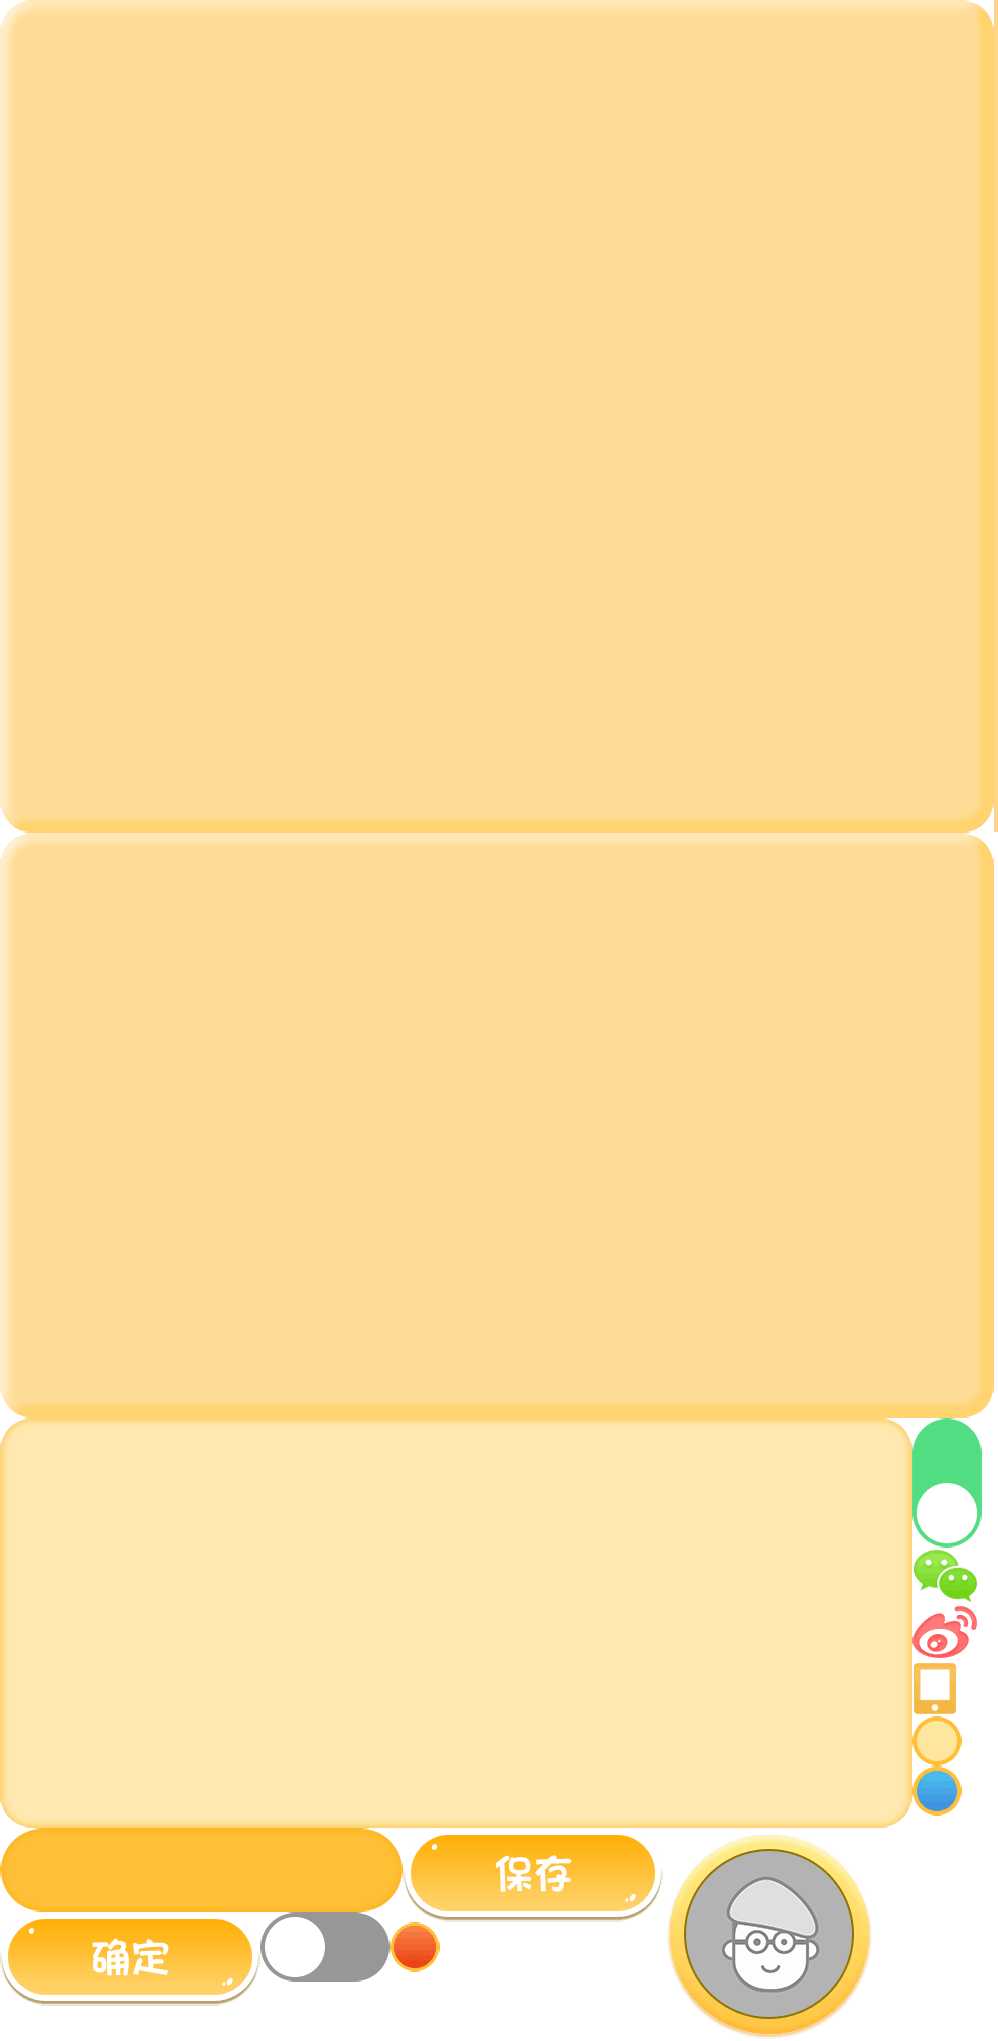
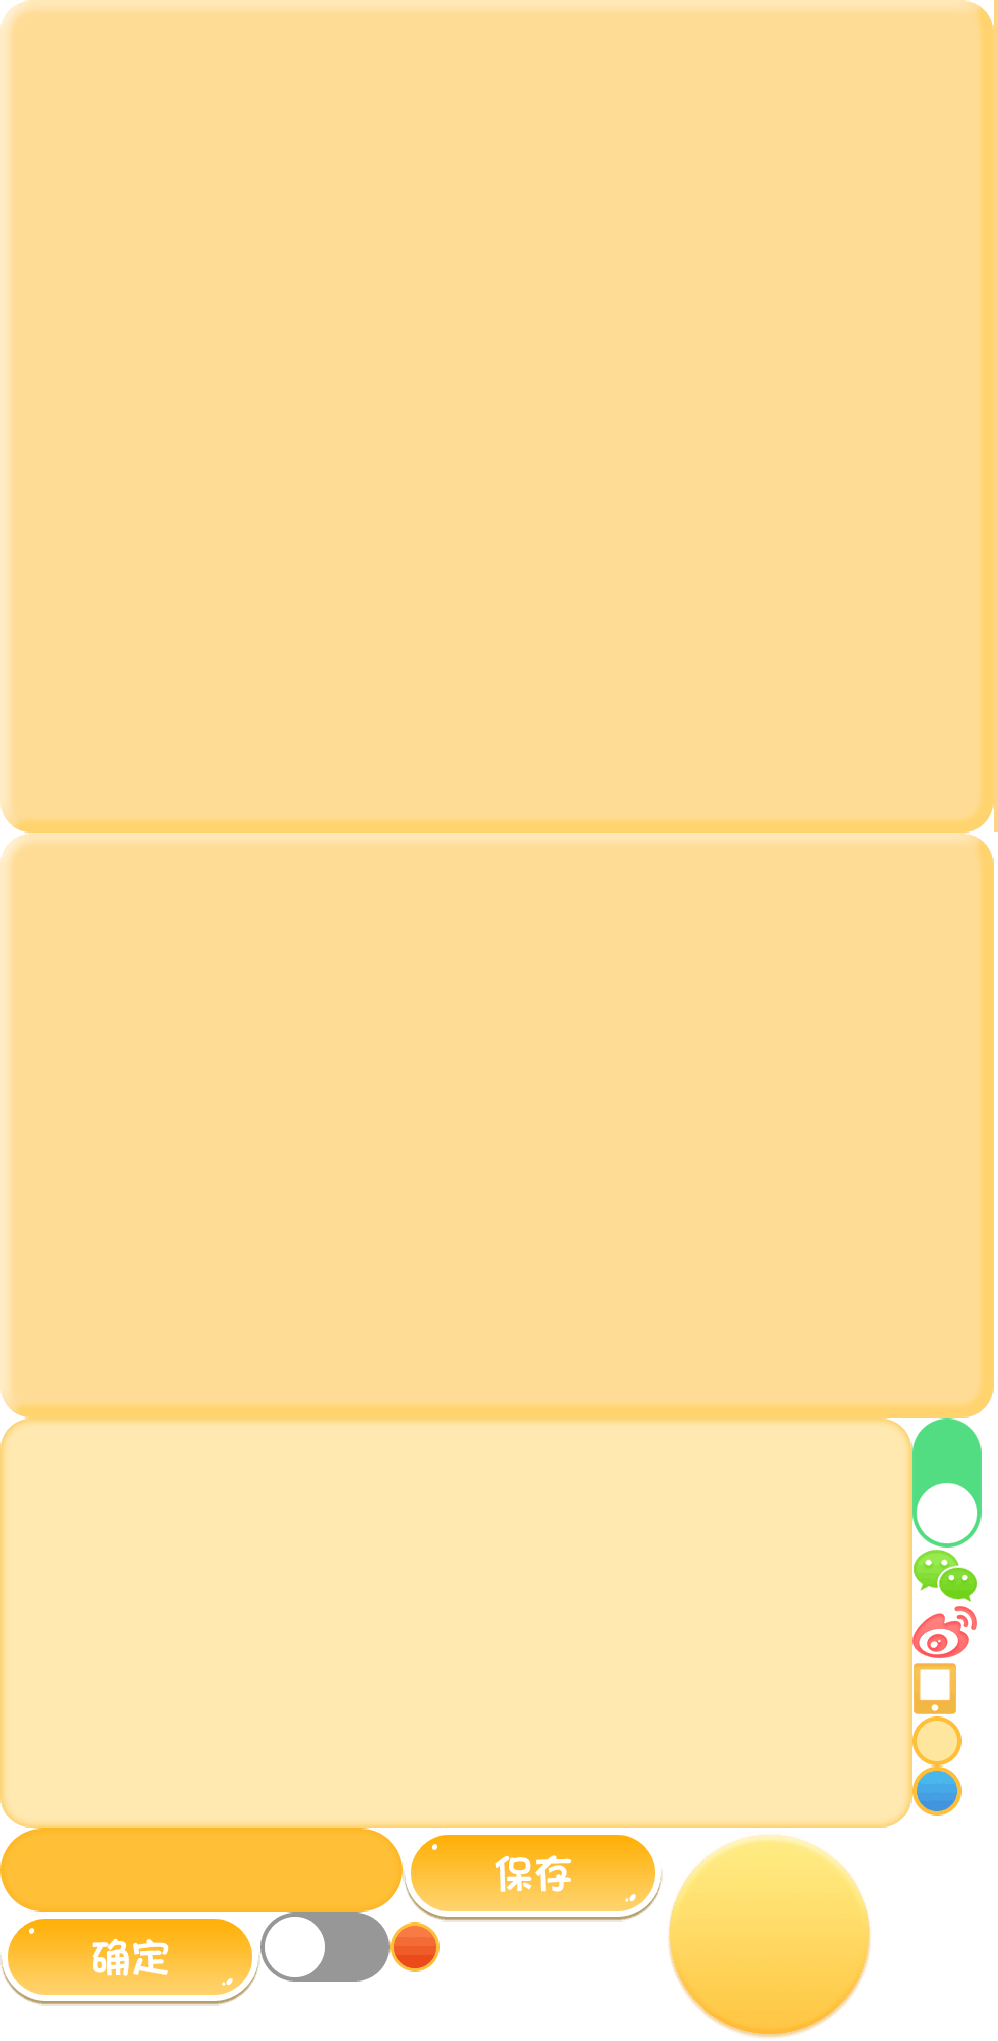
首页头像

Changed region(s): [[0.6834, 0.8951, 0.8697, 0.9878]]

diff --git a/Classes/Main/MainScene.cpp b/Classes/Main/MainScene.cpp
@@ -14,6 +14,7 @@
 #include "DataTableFile.h"
 
 #include "WebViewScene.h"
+#include "renderer/CCGLProgramStateCache.h"
 
 
 USING_NS_CC;
@@ -77,38 +78,47 @@ bool MainScene::init( void )
     
     //用户头像
 
-    auto t_fileInfo = DataTableFile::instance().find( m_loginUser.headImg );
+    auto t_userHeadBorder = Button::create( TexturePacker::Main::mainUserHeadBackground, TexturePacker::Main::mainUserHeadBackground, "", Widget::TextureResType::PLIST );
+    auto t_userHeadBorderSizeHalf = t_userHeadBorder->getContentSize() * 0.5f;
+    auto t_userHeadBorderPosition = Vec2( origin.x + t_userHeadBorderSizeHalf.width + 15.0f , origin.y + visibleSize.height - t_userHeadBorderSizeHalf.height - 10.0f );
 
-    m_personalHead = Button::create( TexturePacker::Dialog::per_touxiang, TexturePacker::Dialog::per_touxiang, "", Widget::TextureResType::PLIST  );
+    t_userHeadBorder->setPosition( t_userHeadBorderPosition );
+    t_userHeadBorder->setScale( adaptation() );
+    this->addChild( t_userHeadBorder );
+    m_mainSceneButtons.push_back( t_userHeadBorder );
     
-    if( !t_fileInfo.fileName.empty() )
-    {
-        m_personalHead->loadTextures( fullFilePath( t_fileInfo.fileName ), fullFilePath( t_fileInfo.fileName ) );
-    }
-
-    m_personalHead->setScale( adaptation() );
-    auto t_personalHeadSizeHelf = m_personalHead->getContentSize() * adaptation() * 0.5f;
-    auto t_personalHeadPosition = Vec2( origin.x + t_personalHeadSizeHelf.width + 15.0f , origin.y + visibleSize.height - t_personalHeadSizeHelf.height - 10.0f );
-    m_personalHead->setPosition( t_personalHeadPosition );
-    this->addChild( m_personalHead );
-    m_mainSceneButtons.push_back( m_personalHead );
-
-    auto t_personalName = Label::createWithTTF( m_loginUser.userName, PAGE_FONT, 16 );
-    auto t_personalNameSizeHalf = t_personalName->getContentSize() * 0.5f;
-
-    t_personalName->setPosition( Vec2( t_personalHeadPosition.x + t_personalHeadSizeHelf.width + t_personalNameSizeHalf.width + 5.0f, t_personalHeadPosition.y ) );
-
-    this->addChild( t_personalName );
-
-
     
-
-    
-    touchAnswer( m_personalHead , [this]( Ref * p_ref ){
+    touchAnswer( t_userHeadBorder , [this]( Ref * p_ref ){
         m_disenableAllButton();
         personalHeadOnClick();
     }, adaptation() * 1.1f, adaptation() );
     
+
+    auto t_fileInfo = DataTableFile::instance().find( m_loginUser.headImg );
+
+    m_personalHead = t_fileInfo.fileId.empty() ? Sprite::create( "DefaultHead.png" ) : Sprite::create( t_fileInfo.fileName ) ;
+
+    auto t_personalHeadSizeHelf = m_personalHead->getContentSize() * 0.5f;
+    m_personalHead->setPosition( Vec2( t_userHeadBorderSizeHalf.width, t_userHeadBorderSizeHalf.height ) );
+    m_personalHead->setScale( t_userHeadBorderSizeHalf.height * 0.93f / t_personalHeadSizeHelf.height );
+    t_userHeadBorder->addChild( m_personalHead );
+
+    GLProgram * t_userHeadProgram = GLProgramCache::getInstance()->getGLProgram( "UserHead" );
+    if( !t_userHeadProgram )
+    {
+        t_userHeadProgram = GLProgram::createWithFilenames( "UserHead.vert", "UserHead.frag" );
+        GLProgramCache::getInstance()->addGLProgram( t_userHeadProgram, "UserHead" );
+    }
+
+    GLProgramState * t_userHeadProgramState = GLProgramState::getOrCreateWithGLProgram( t_userHeadProgram );
+    m_personalHead->setGLProgramState( t_userHeadProgramState );
+
+    auto t_personalName = Label::createWithTTF( m_loginUser.userName, PAGE_FONT, 16 );
+    auto t_personalNameSizeHalf = t_personalName->getContentSize() * 0.5f;
+
+    t_personalName->setPosition( Vec2( t_userHeadBorderPosition.x + t_userHeadBorderSizeHalf.width + t_personalNameSizeHalf.width + 5.0f, t_userHeadBorderPosition.y ) );
+
+    this->addChild( t_personalName );
     
     auto t_Settings = Button::create( TexturePacker::Main::mainSetting, TexturePacker::Main::mainSetting, "", Widget::TextureResType::PLIST  );
     t_Settings->setScale( adaptation() );
@@ -254,7 +264,7 @@ void MainScene::refreshSource( const DataFile & p_fileInfo )
         auto t_fileInfo = DataTableFile::instance().find( m_loginUser.headImg );
         if( !t_fileInfo.fileName.empty() )
         {
-            m_personalHead->loadTextures( fullFilePath( t_fileInfo.fileName ), fullFilePath( t_fileInfo.fileName ) );
+            m_personalHead->setSpriteFrame( t_fileInfo.fileName );
         }
     }
 }

diff --git a/Classes/Resources/Dialog.cpp b/Classes/Resources/Dialog.cpp
@@ -33,7 +33,6 @@ const std::string Dialog::listSpaceLine             = "ListSpaceLine.png";
 const std::string Dialog::loginByPhone              = "LoginByPhone.png";
 const std::string Dialog::loginByWeChat             = "LoginByWeChat.png";
 const std::string Dialog::loginByXinlang            = "LoginByXinlang.png";
-const std::string Dialog::per_touxiang              = "per_touxiang.png";
 const std::string Dialog::personalCenterBackground  = "PersonalCenterBackground.png";
 const std::string Dialog::redioButtonNormal         = "RedioButtonNormal.png";
 const std::string Dialog::redioButtonSelectedBlue   = "RedioButtonSelectedBlue.png";
@@ -44,6 +43,7 @@ const std::string Dialog::settingsContentBackground = "SettingsContentBackground
 const std::string Dialog::swichEnabled              = "SwichEnabled.png";
 const std::string Dialog::swichNormal               = "SwichNormal.png";
 const std::string Dialog::texteditBackground        = "TexteditBackground.png";
+const std::string Dialog::userHeadBackground        = "UserHeadBackground.png";
 
 // ---------------------------------------------------------
 // convenience functions returing pointers to Sprite objects
@@ -71,11 +71,6 @@ Sprite* Dialog::createLoginByWeChatSprite()
 Sprite* Dialog::createLoginByXinlangSprite()
 {
     return Sprite::createWithSpriteFrameName(loginByXinlang);
-}
-
-Sprite* Dialog::createPer_touxiangSprite()
-{
-    return Sprite::createWithSpriteFrameName(per_touxiang);
 }
 
 Sprite* Dialog::createPersonalCenterBackgroundSprite()
@@ -126,6 +121,11 @@ Sprite* Dialog::createSwichNormalSprite()
 Sprite* Dialog::createTexteditBackgroundSprite()
 {
     return Sprite::createWithSpriteFrameName(texteditBackground);
+}
+
+Sprite* Dialog::createUserHeadBackgroundSprite()
+{
+    return Sprite::createWithSpriteFrameName(userHeadBackground);
 }
 
 

diff --git a/Classes/Resources/Main.cpp b/Classes/Resources/Main.cpp
@@ -1,6 +1,6 @@
 // ---------------------------------------
 // Sprite definitions for Main
-// Generated with TexturePacker 4.8.2
+// Generated with TexturePacker 4.8.3
 //
 // https://www.codeandweb.com/texturepacker
 // ---------------------------------------
@@ -28,13 +28,14 @@ void Main::removeSpriteFramesFromCache()
 // ---------------------
 // sprite name constants
 // ---------------------
-const std::string Main::mainBaike      = "MainBaike.png";
-const std::string Main::mainDadpat     = "MainDadpat.png";
-const std::string Main::mainGame       = "MainGame.png";
-const std::string Main::mainMessage    = "MainMessage.png";
-const std::string Main::mainNewMessage = "MainNewMessage.png";
-const std::string Main::mainNotice     = "MainNotice.png";
-const std::string Main::mainSetting    = "MainSetting.png";
+const std::string Main::mainBaike              = "MainBaike.png";
+const std::string Main::mainDadpat             = "MainDadpat.png";
+const std::string Main::mainGame               = "MainGame.png";
+const std::string Main::mainMessage            = "MainMessage.png";
+const std::string Main::mainNewMessage         = "MainNewMessage.png";
+const std::string Main::mainNotice             = "MainNotice.png";
+const std::string Main::mainSetting            = "MainSetting.png";
+const std::string Main::mainUserHeadBackground = "MainUserHeadBackground.png";
 
 // ---------------------------------------------------------
 // convenience functions returing pointers to Sprite objects
@@ -72,6 +73,11 @@ Sprite* Main::createMainNoticeSprite()
 Sprite* Main::createMainSettingSprite()
 {
     return Sprite::createWithSpriteFrameName(mainSetting);
+}
+
+Sprite* Main::createMainUserHeadBackgroundSprite()
+{
+    return Sprite::createWithSpriteFrameName(mainUserHeadBackground);
 }
 
 

diff --git a/Classes/Resources/Dialog.hpp b/Classes/Resources/Dialog.hpp
@@ -4,7 +4,7 @@
 //
 // https://www.codeandweb.com/texturepacker
 // 
-// $TexturePacker:SmartUpdate:eb5a6df173df219c7877f701f33b5726:cbf55cbe15e32da0bed98dc0e91fc1cf:9d5f9d777bce4db9fed050e341ff8596$
+// $TexturePacker:SmartUpdate:a021f539ca174ad7f857838343253edb:21cc3f408b8fe24fc54ad60e5f5b98e8:9d5f9d777bce4db9fed050e341ff8596$
 // ---------------------------------------
 
 #ifndef __DIALOG_H__
@@ -38,7 +38,6 @@ public:
     static const std::string loginByPhone;
     static const std::string loginByWeChat;
     static const std::string loginByXinlang;
-    static const std::string per_touxiang;
     static const std::string personalCenterBackground;
     static const std::string redioButtonNormal;
     static const std::string redioButtonSelectedBlue;
@@ -49,6 +48,7 @@ public:
     static const std::string swichEnabled;
     static const std::string swichNormal;
     static const std::string texteditBackground;
+    static const std::string userHeadBackground;
 
     // --------------
     // Sprite objects
@@ -58,7 +58,6 @@ public:
     static cocos2d::Sprite *createLoginByPhoneSprite();
     static cocos2d::Sprite *createLoginByWeChatSprite();
     static cocos2d::Sprite *createLoginByXinlangSprite();
-    static cocos2d::Sprite *createPer_touxiangSprite();
     static cocos2d::Sprite *createPersonalCenterBackgroundSprite();
     static cocos2d::Sprite *createRedioButtonNormalSprite();
     static cocos2d::Sprite *createRedioButtonSelectedBlueSprite();
@@ -69,6 +68,7 @@ public:
     static cocos2d::Sprite *createSwichEnabledSprite();
     static cocos2d::Sprite *createSwichNormalSprite();
     static cocos2d::Sprite *createTexteditBackgroundSprite();
+    static cocos2d::Sprite *createUserHeadBackgroundSprite();
 
 }; // class
 

diff --git a/Classes/Resources/Main.hpp b/Classes/Resources/Main.hpp
@@ -1,10 +1,10 @@
 // ---------------------------------------
 // Sprite definitions for Main
-// Generated with TexturePacker 4.8.2
+// Generated with TexturePacker 4.8.3
 //
 // https://www.codeandweb.com/texturepacker
 // 
-// $TexturePacker:SmartUpdate:aacda3f6c1d81a39ff7ff166d2cbd371:d8cf3c763e467a84d584030d57634c1c:d8d629a6b501bd991840527e921c506f$
+// $TexturePacker:SmartUpdate:6946c8cba43af226d524c4bce4e203d4:d125f2b84a4b7e8c9df714fc75e50145:d8d629a6b501bd991840527e921c506f$
 // ---------------------------------------
 
 #ifndef __MAIN_H__
@@ -40,6 +40,7 @@ public:
     static const std::string mainNewMessage;
     static const std::string mainNotice;
     static const std::string mainSetting;
+    static const std::string mainUserHeadBackground;
 
     // --------------
     // Sprite objects
@@ -51,6 +52,7 @@ public:
     static cocos2d::Sprite *createMainNewMessageSprite();
     static cocos2d::Sprite *createMainNoticeSprite();
     static cocos2d::Sprite *createMainSettingSprite();
+    static cocos2d::Sprite *createMainUserHeadBackgroundSprite();
 
 }; // class
 

diff --git a/Classes/Main/DialogPersonalCenterLayer.cpp b/Classes/Main/DialogPersonalCenterLayer.cpp
@@ -70,7 +70,7 @@ bool DialogPersonalCenterLayer::init( void )
     
     float t_padding = t_DialogCentBackgroundSize.width * 0.06f;
     
-    auto t_personalHead = Button::create( TexturePacker::Dialog::per_touxiang, TexturePacker::Dialog::per_touxiang, "", Widget::TextureResType::PLIST );
+    auto t_personalHead = Button::create( "DefaultHead.png", "DefaultHead.png" );
     auto t_personalHeadSizeHalf = t_personalHead->getContentSize() * 0.5f;
     t_personalHead->setPosition( Vec2( t_personalHeadSizeHalf.width + t_padding, t_DialogCentBackgroundSize.height - t_personalHeadSizeHalf.height - t_padding ) );
     m_dialogCentBackground->addChild( t_personalHead );

diff --git a/Classes/AppDelegate.cpp b/Classes/AppDelegate.cpp
@@ -28,6 +28,7 @@
 #include "C2DXShareSDK.h"
 #include "Config.h"
 #include "DataTableUser.h"
+#include "Common.h"
 
 // #define USE_AUDIO_ENGINE 1
 // #define USE_SIMPLE_AUDIO_ENGINE 1
@@ -149,6 +150,9 @@ bool AppDelegate::applicationDidFinishLaunching() {
     {        
         director->setContentScaleFactor(MIN(smallResolutionSize.height/designResolutionSize.height, smallResolutionSize.width/designResolutionSize.width));
     }
+
+    FileUtils::getInstance()->addSearchPath( "Resources/shader" );
+    FileUtils::getInstance()->addSearchPath( writeFilePath() );
 
     register_all_packages();
 

diff --git a/Classes/Main/MainScene.h b/Classes/Main/MainScene.h
@@ -38,7 +38,7 @@ private:
     DialogSettingsLayer * m_dialogSettings;
     DialogPersonalCenterLayer * m_dialogPersonalCenter;
 
-    cocos2d::ui::Button * m_personalHead;
+    cocos2d::Sprite * m_personalHead;
 
     std::vector< cocos2d::ui::Button *> m_mainSceneButtons;
     std::function<void()> m_enableAllButton;
